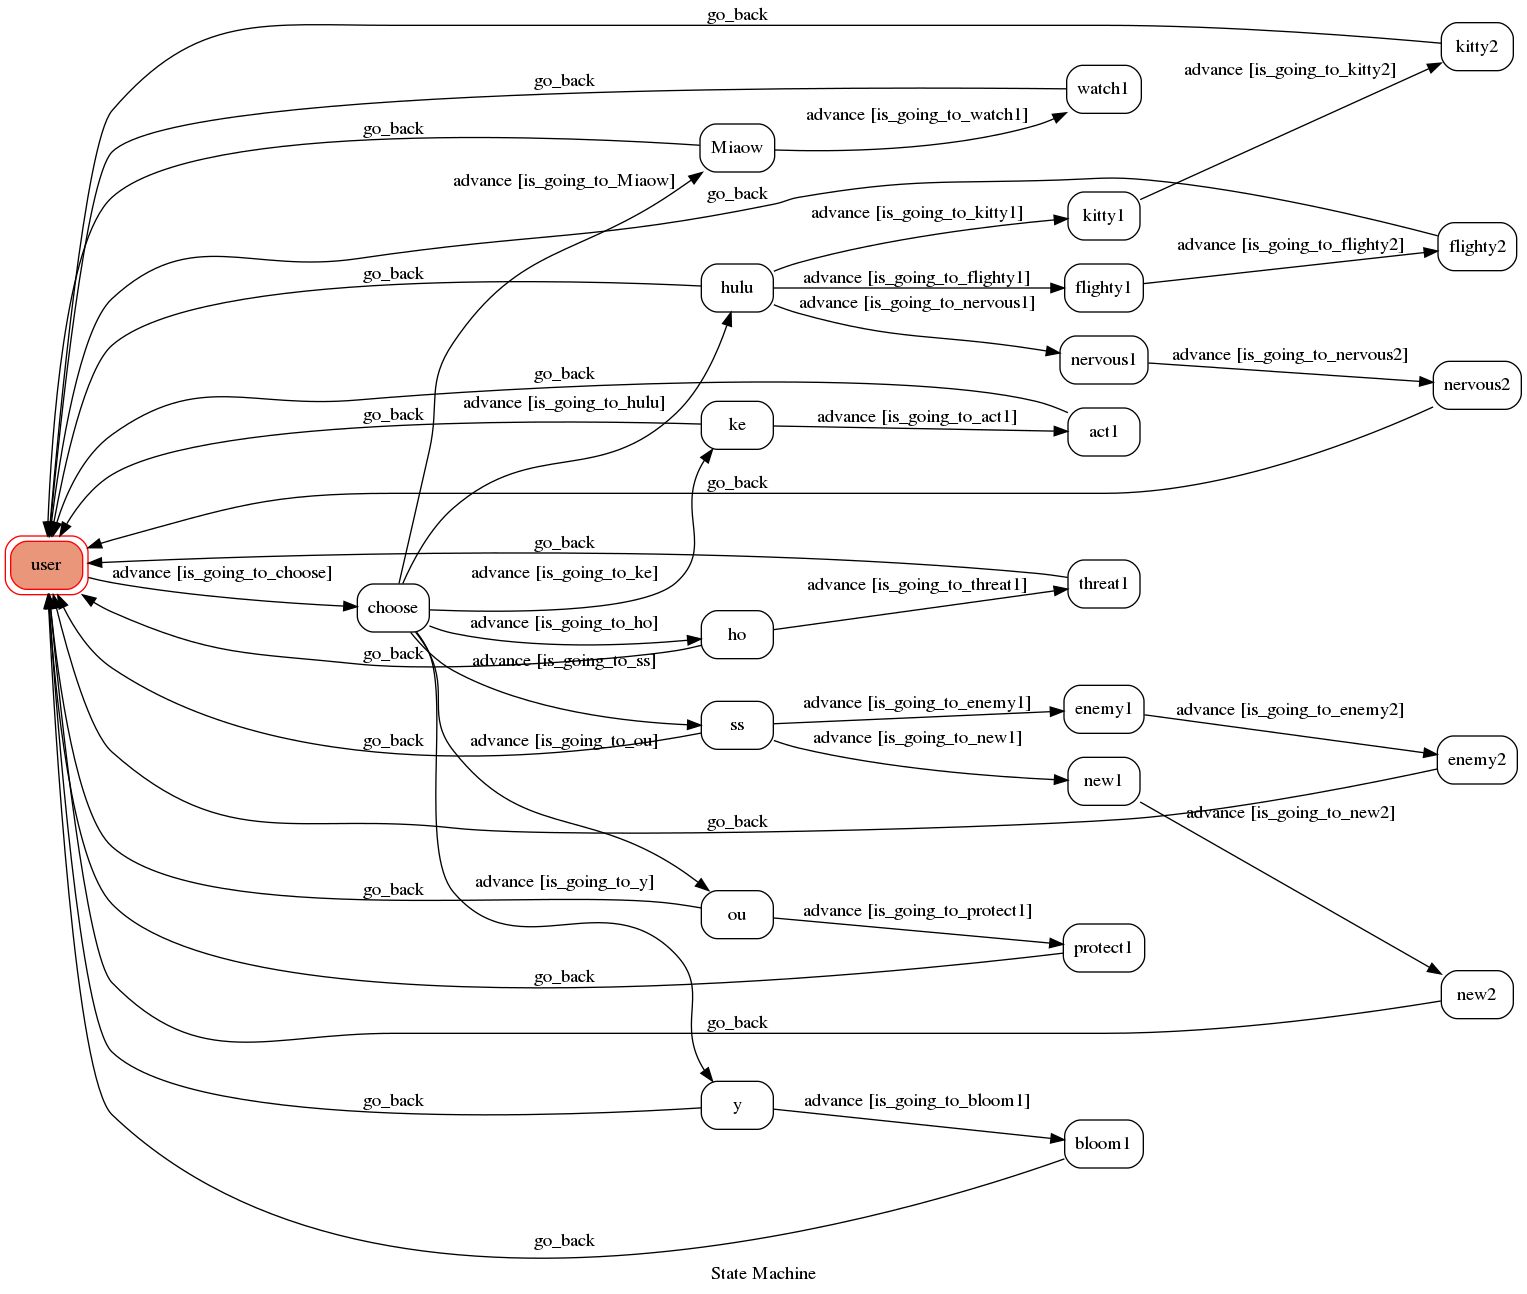
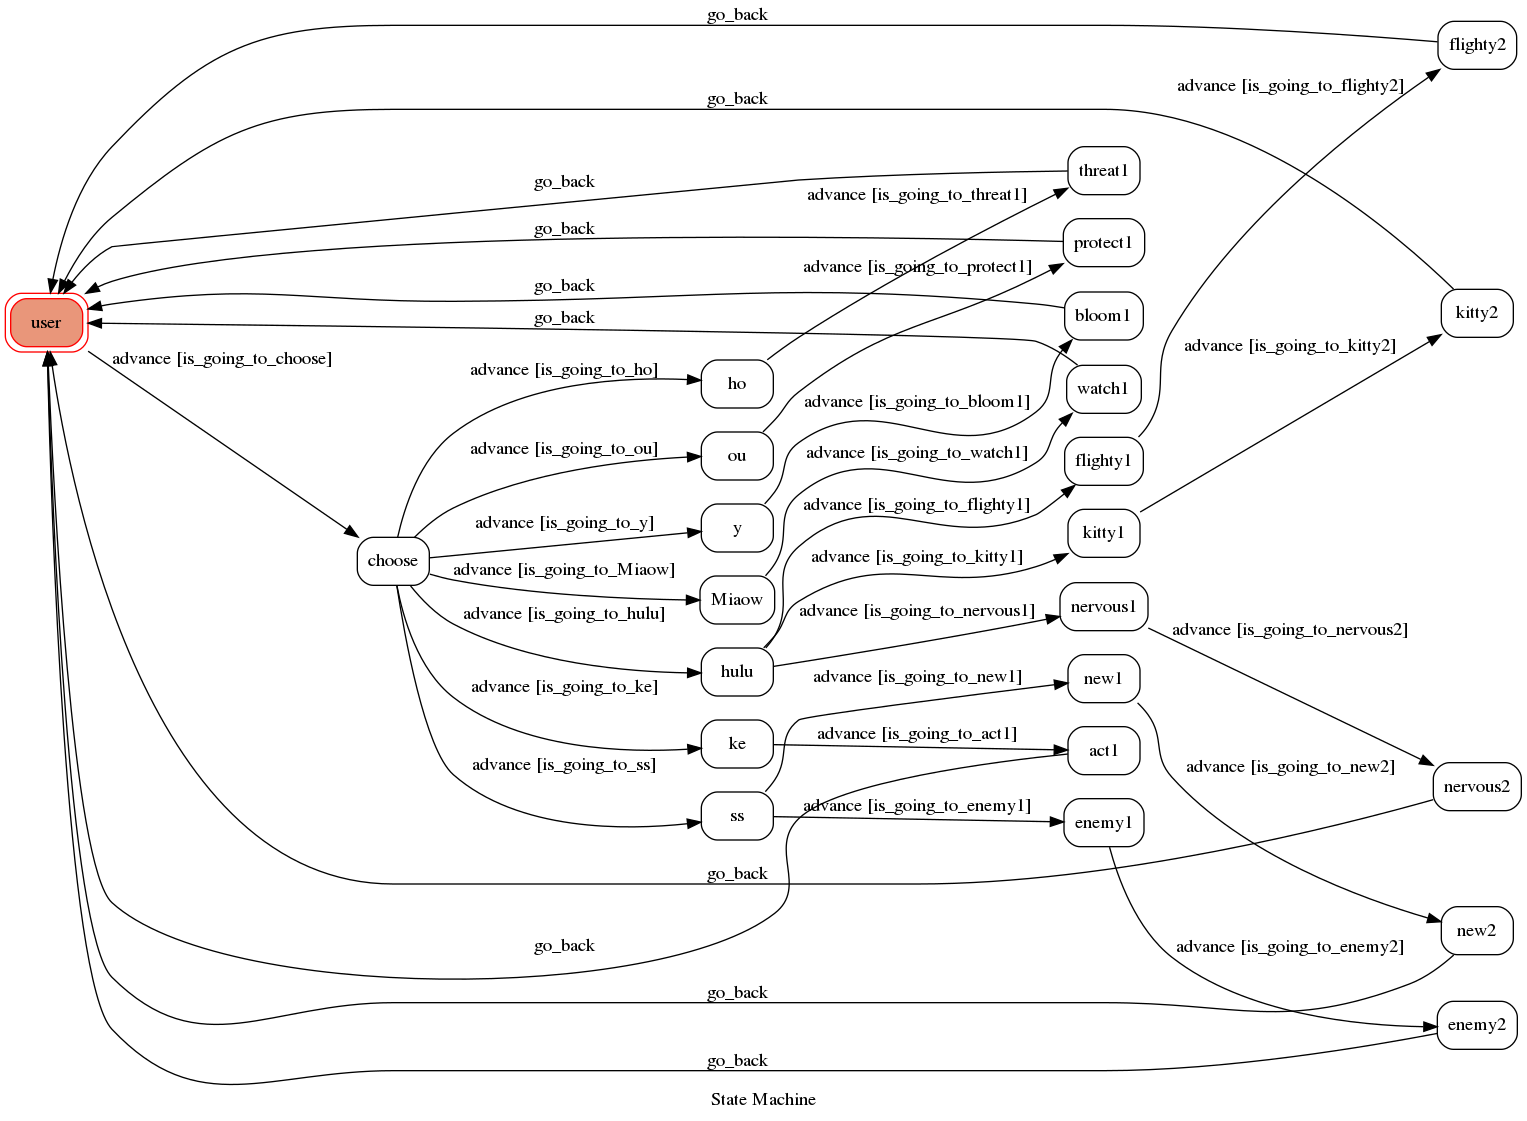
Add files via upload

diff --git a/fsm.py b/fsm.py
@@ -1,0 +1,318 @@
+from transitions.extensions import GraphMachine
+
+from utils import send_text_message
+
+
+class TocMachine(GraphMachine):
+    def __init__(self, **machine_configs):
+        self.machine = GraphMachine(model=self, **machine_configs)
+
+    def is_going_to_choose(self, event):
+        text = event.message.text
+        return text.lower() == "start"
+
+    def on_enter_choose(self, event):
+        print("I'm entering choose")
+
+        reply_token = event.reply_token
+        send_text_message(reply_token, "貓咪總是「喵喵」叫，好想知道牠在說什麼！ (C_C)")
+
+    def on_exit_choose(self, event):
+        print("Leaving choose")
+
+    def is_going_to_hulu(self, event):
+        text = event.message.text
+        return text.lower() == "呼嚕呼嚕"
+
+    def on_enter_hulu(self, event):
+        print("I'm entering hulu")
+
+        reply_token = event.reply_token
+        send_text_message(reply_token, "是「幼貓」?是「成貓撒嬌」?還是「緊張不舒服」?(*>w<)")
+
+    def on_exit_hulu(self, event):
+        print("Leaving hulu")
+
+    def is_going_to_kitty1(self, event):
+        text = event.message.text
+        return text.lower() == "幼貓"
+
+    def on_enter_kitty1(self, event):
+        print("I'm entering kitty1")
+
+        reply_token = event.reply_token
+        send_text_message(reply_token, "在幼貓還沒睜開眼的時候,會透過呼嚕的振動頻率讓母貓找到自己")
+
+    def on_exit_kitty1(self, event):
+        print("Leaving kitty1")
+
+    def is_going_to_kitty2(self, event):
+        text = event.message.text
+        return text.lower() == "貓咪說什麼？"
+
+    def on_enter_kitty2(self, event):
+        print("I'm entering kitty2")
+
+        reply_token = event.reply_token
+        send_text_message(reply_token, "喵:「媽媽，我在這裡!」")
+        self.go_back()
+
+    def on_exit_kitty2(self):
+        print("Leaving kitty2")
+
+    def is_going_to_flighty1(self, event):
+        text = event.message.text
+        return text.lower() == "成貓撒嬌"
+
+    def on_enter_flighty1(self, event):
+        print("I'm entering flighty1")
+
+        reply_token = event.reply_token
+        send_text_message(reply_token, "貓咪在放鬆狀態下主動接近飼主，發出呼嚕聲")
+
+    def on_exit_flighty1(self, event):
+        print("Leaving flighty1")
+
+    def is_going_to_flighty2(self, event):
+        text = event.message.text
+        return text.lower() == "貓咪說什麼？"
+
+    def on_enter_flighty2(self, event):
+        print("I'm entering flighty2")
+
+        reply_token = event.reply_token
+        send_text_message(reply_token, "喵:「摸摸我嘛!」「跟我玩~」「我餓了!要吃飯!」")
+        self.go_back()
+
+    def on_exit_flighty2(self):
+        print("Leaving flighty2")
+    
+
+    def is_going_to_nervous1(self, event):
+        text = event.message.text
+        return text.lower() == "緊張不舒服"
+
+    def on_enter_nervous1(self, event):
+        print("I'm entering nervous1")
+
+        reply_token = event.reply_token
+        send_text_message(reply_token, "貓咪在外出緊張或是身體不舒服的時候，會發出呼嚕聲來自我安慰")
+
+    def on_exit_nervous1(self, event):
+        print("Leaving nervous1")
+
+    def is_going_to_nervous2(self, event):
+        text = event.message.text
+        return text.lower() == "貓咪說什麼？"
+
+    def on_enter_nervous2(self, event):
+        print("I'm entering nervous2")
+
+        reply_token = event.reply_token
+        send_text_message(reply_token, "喵:「我好緊張!」「嗚~我有點不舒服!」")
+        self.go_back()
+
+    def on_exit_nervous2(self):
+        print("Leaving nervous2")
+
+    def is_going_to_Miaow(self, event):
+        text = event.message.text
+        return text.lower() == "喵"
+
+    def on_enter_Miaow(self, event):
+        print("I'm entering Miaow")
+
+        reply_token = event.reply_token
+        send_text_message(reply_token, "貓咪只有在對人類的時候才會發出「miaow~」的叫聲。\n\n引起人類注意，用叫聲來取得食物或滿足其他需求。")
+
+    def on_exit_Miaow(self, event):
+        print("Leaving Miaow")
+
+    def is_going_to_watch1(self, event):
+        text = event.message.text
+        return text.lower() == "貓咪說什麼？"
+
+    def on_enter_watch1(self, event):
+        print("I'm entering watch1")
+
+        reply_token = event.reply_token
+        send_text_message(reply_token, "喵:「注意我!朕需要關注!」")
+        self.go_back()
+
+    def on_exit_watch1(self):
+        print("Leaving watch1")
+
+    def is_going_to_ke(self, event):
+        text = event.message.text
+        return text.lower() == "咯咯"
+
+    def on_enter_ke(self, event):
+        print("I'm entering ke")
+
+        reply_token = event.reply_token
+        send_text_message(reply_token, "貓咪在於活躍狀態或想與其他貓咪、同住的室友互動時，會發出這樣的聲音")
+
+    def on_exit_ke(self, event):
+        print("Leaving ke")
+
+    def is_going_to_act1(self, event):
+        text = event.message.text
+        return text.lower() == "貓咪說什麼？"
+
+    def on_enter_act1(self, event):
+        print("I'm entering act1")
+
+        reply_token = event.reply_token
+        send_text_message(reply_token, "喵:「哈囉~朋友，要一起玩嗎?」")
+        self.go_back()
+
+    def on_exit_act1(self):
+        print("Leaving act1")
+    
+    def is_going_to_ss(self, event):
+        text = event.message.text
+        return text.lower() == "嘶嘶"
+
+    def on_enter_ss(self, event):
+        print("I'm entering ss")
+
+        reply_token = event.reply_token
+        send_text_message(reply_token, "是「遇到敵人」還是「處在陌生的環境」呢?(*>w<)")
+
+    def on_exit_ss(self, event):
+        print("Leaving ss")
+
+    def is_going_to_enemy1(self, event):
+        text = event.message.text
+        return text.lower() == "遇到敵人"
+
+    def on_enter_enemy1(self, event):
+        print("I'm entering enemy1")
+
+        reply_token = event.reply_token
+        send_text_message(reply_token, "貓會因為害怕而張大嘴巴，露出一嘴牙齒，試圖嚇退敵人、想要與敵人保持距離，也是攻擊前的最後警告。\n\n遇到貓咪哈氣的時候，最好拉開彼此間的距離，眼睛避開避免看牠，身體也不正面面對。")
+
+    def on_exit_enemy1(self, event):
+        print("Leaving enemy1")
+
+    def is_going_to_enemy2(self, event):
+        text = event.message.text
+        return text.lower() == "貓咪說什麼？"
+
+    def on_enter_enemy2(self, event):
+        print("I'm entering enemy2")
+
+        reply_token = event.reply_token
+        send_text_message(reply_token, "喵:「走開！別靠近我」")
+        self.go_back()
+
+    def on_exit_enemy2(self):
+        print("Leaving enemy2")
+
+    def is_going_to_new1(self, event):
+        text = event.message.text
+        return text.lower() == "處在陌生的環境"
+
+    def on_enter_new1(self, event):
+        print("I'm entering new1")
+
+        reply_token = event.reply_token
+        send_text_message(reply_token, "因為聞到不熟悉味道，或是剛到陌生、未知的新環境裡，感覺到擔憂、不安。\n\n遇到貓咪哈氣的時候，最好拉開彼此間的距離，眼睛避開避免看牠，身體也不正面面對。")
+
+    def on_exit_new1(self, event):
+        print("Leaving new1")
+
+    def is_going_to_new2(self, event):
+        text = event.message.text
+        return text.lower() == "貓咪說什麼？"
+
+    def on_enter_new2(self, event):
+        print("I'm entering new2")
+
+        reply_token = event.reply_token
+        send_text_message(reply_token, "喵:「拉開距離、離我遠點」")
+        self.go_back()
+
+    def on_exit_new2(self):
+        print("Leaving new2")
+
+    def is_going_to_ho(self, event):
+        text = event.message.text
+        return text.lower() == "低吼"
+
+    def on_enter_ho(self, event):
+        print("I'm entering ho")
+
+        reply_token = event.reply_token
+        send_text_message(reply_token, "聲音或氣味讓貓咪感覺到被威脅")
+
+    def on_exit_ho(self, event):
+        print("Leaving ho")
+
+    def is_going_to_threat1(self, event):
+        text = event.message.text
+        return text.lower() == "貓咪說什麼？"
+
+    def on_enter_threat1(self, event):
+        print("I'm entering threat1")
+
+        reply_token = event.reply_token
+        send_text_message(reply_token, "喵:「危險靠近!我要躲起來~」")
+        self.go_back()
+
+    def on_exit_threat1(self):
+        print("Leaving threat1")
+
+    def is_going_to_ou(self, event):
+        text = event.message.text
+        return text.lower() == "低鳴"
+
+    def on_enter_ou(self, event):
+        print("I'm entering ou")
+
+        reply_token = event.reply_token
+        send_text_message(reply_token, "通常發生在牠咬住獵物或嘴裡有非常在意的食物時")
+
+    def on_exit_ou(self, event):
+        print("Leaving ou")
+
+    def is_going_to_protect1(self, event):
+        text = event.message.text
+        return text.lower() == "貓咪說什麼？"
+
+    def on_enter_protect1(self, event):
+        print("I'm entering protect1")
+
+        reply_token = event.reply_token
+        send_text_message(reply_token, "喵:「這是我的!才不分給你~」")
+        self.go_back()
+
+    def on_exit_protect1(self):
+        print("Leaving protect1")
+
+    def is_going_to_y(self, event):
+        text = event.message.text
+        return text.lower() == "大聲尖叫"
+
+    def on_enter_y(self, event):
+        print("I'm entering y")
+
+        reply_token = event.reply_token
+        send_text_message(reply_token, "貓感受到威脅程度爆表卻無路可逃，打算用盡力氣與敵人做最後的搏鬥。\n\n通常家貓在接受美容（如洗澡）或醫療的時候，或是貓咪在地盤被入侵，僵持不下、互相對峙的時候，都會發出這樣的叫聲。")
+
+    def on_exit_y(self, event):
+        print("Leaving y")
+
+    def is_going_to_bloom1(self, event):
+        text = event.message.text
+        return text.lower() == "貓咪說什麼？"
+
+    def on_enter_bloom1(self, event):
+        print("I'm entering bloom1")
+
+        reply_token = event.reply_token
+        send_text_message(reply_token, "喵:「救命啊~」「跟你拚了~」")
+        self.go_back()
+
+    def on_exit_bloom1(self):
+        print("Leaving bloom1")

diff --git a/app.py b/app.py
@@ -42,7 +42,7 @@ machine = TocMachine(
         {"trigger": "advance","source": "nervous1","dest": "nervous2","conditions": "is_going_to_nervous2",},
         {"trigger": "advance","source": "enemy1","dest": "enemy2","conditions": "is_going_to_enemy2",},
         {"trigger": "advance","source": "new1","dest": "new2","conditions": "is_going_to_new2",},
-        {"trigger": "go_back", "source": [ "hulu", "Miaow", "ke", "ss", "ho", "ou", "y", "watch1", "act1","threat1", "protect1", "bloom1","kitty2", "flighty2", "nervous2", "enemy2", "new2"], "dest": "user"},
+        {"trigger": "go_back", "source": [  "watch1", "act1","threat1", "protect1", "bloom1","kitty2", "flighty2", "nervous2", "enemy2", "new2"], "dest": "user"},
 
     ],
     initial="user",
@@ -68,34 +68,7 @@ line_bot_api = LineBotApi(channel_access_token)
 parser = WebhookParser(channel_secret)
 
 
-# 監聽所有來自 /callback 的 Post Request
-@app.route("/callback", methods=["POST"])
-def callback():
-    signature = request.headers["X-Line-Signature"]
-    # get request body as text
-    body = request.get_data(as_text=True)
-    app.logger.info("Request body: " + body)
-
-    # handle webhook body
-    try:
-        events = parser.parse(body, signature)
-    except InvalidSignatureError:
-        abort(400)
-
-    # if event is MessageEvent and message is TextMessage, then echo text
-    for event in events:
-        if not isinstance(event, MessageEvent):
-            continue
-        if not isinstance(event.message, TextMessage):
-            continue
-
-        line_bot_api.reply_message(
-            event.reply_token, TextSendMessage(text=event.message.text)
-        )
-
-    return "OK"
-
-
+# 監聽所有來自 /webhook 的 Post Request
 # line bot route
 @app.route("/webhook", methods=["POST"])
 def webhook_handler():
